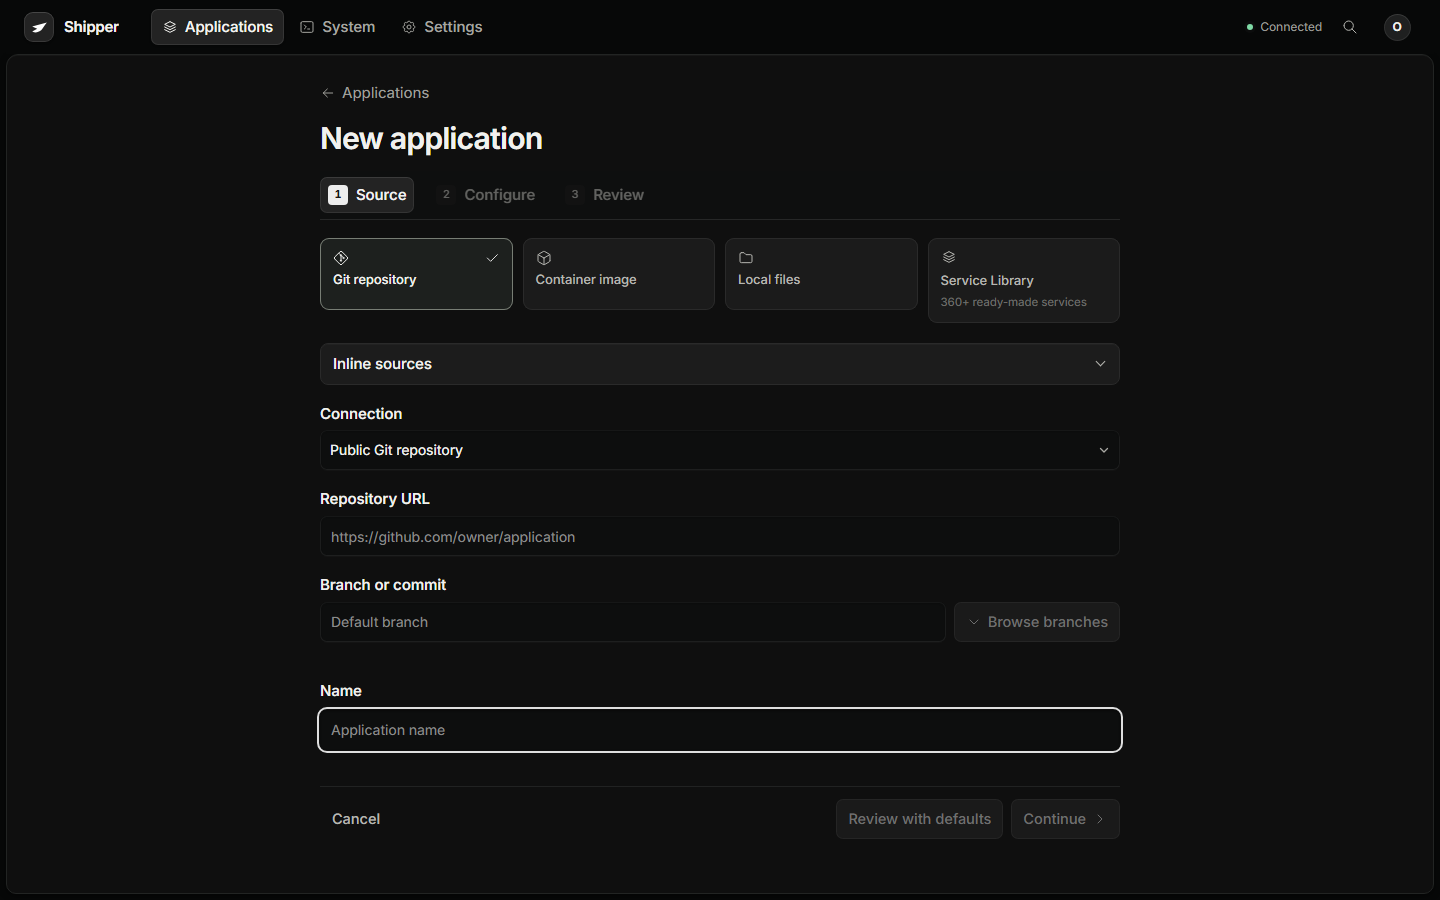
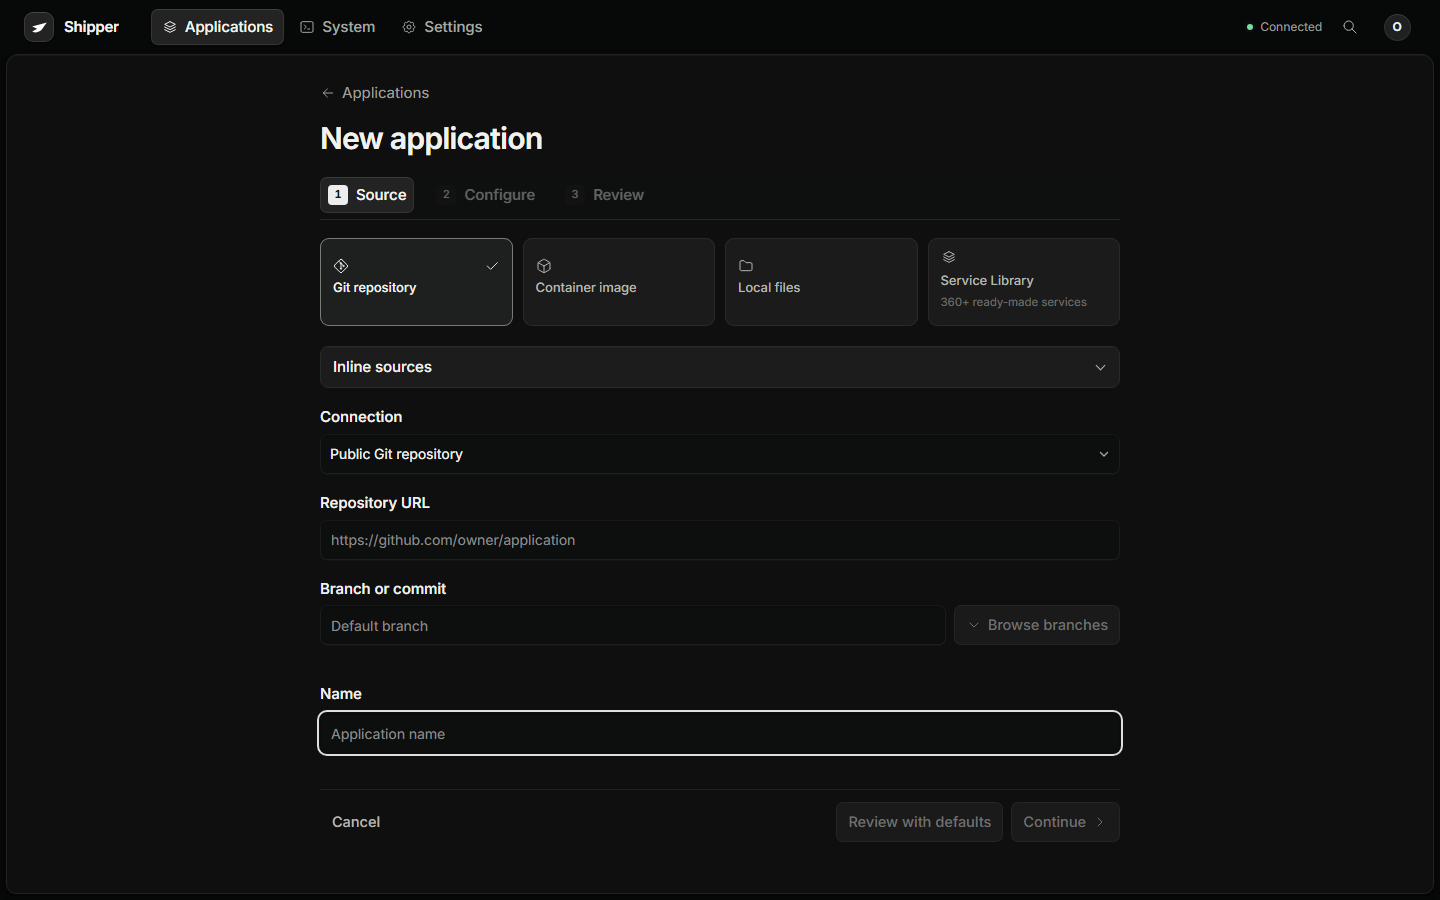
fix: align the source cards on one row height

diff --git a/web/src/styles.css b/web/src/styles.css
@@ -12734,3 +12734,9 @@ input[type="checkbox"]:disabled {
   font-size: 11.5px;
   line-height: 1.2;
 }
+
+/* Keep the four source cards on one shared row height. */
+.creation-page fieldset.choice-grid[aria-label="Source type"] .choice-card {
+  height: auto;
+  min-height: 88px;
+}
